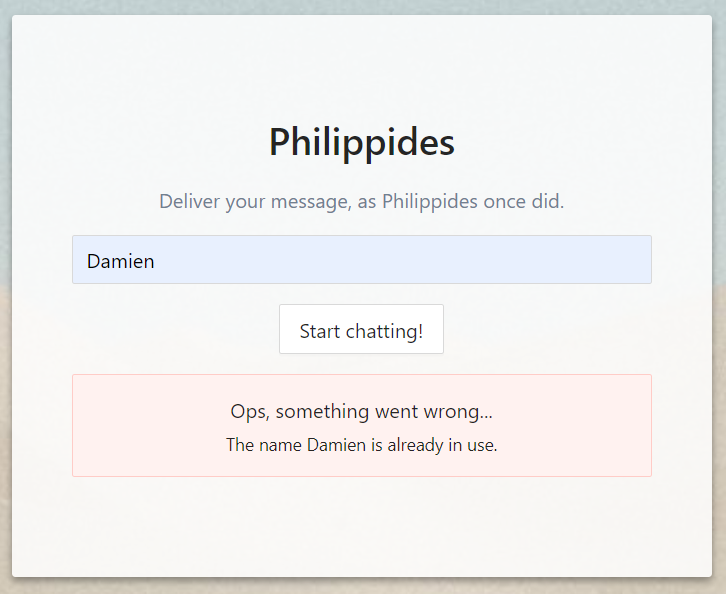
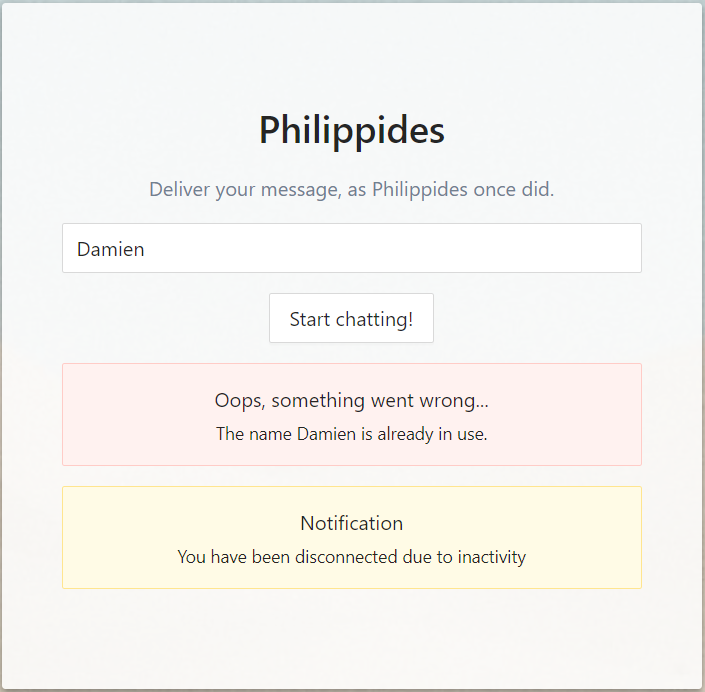
validation & socket revision

diff --git a/src/pages/chat/index.tsx b/src/pages/chat/index.tsx
@@ -12,6 +12,7 @@ import { Type as AuthType } from 'reducers/auth/definitions';
 import Account from 'components/users/account';
 import UserList from 'components/users/user-list';
 import { SocketType } from 'utils/socket';
+import { isStringArray, isString, isMessage } from 'utils/validator';
 
 const Chat = () => {
   const [state, dispatch] = useReducer(chatReducer, chatInitialState);
@@ -25,18 +26,36 @@ const Chat = () => {
   useEffect(() => {
     socketRef.current = io(`http://localhost:4000?userId=${auth?.id}`);
 
-    socketRef.current.on(SocketType.ActiveUsers, (data: string[]) => {
+    socketRef.current.on(SocketType.ActiveUsers, (data: unknown) => {
+      if (!isStringArray(data)) {
+        clientAlert('unable to fetch list of active users');
+        return;
+      }
+
       dispatch({
         type: Type.ADD_USER,
         payload: data,
       });
     });
 
-    socketRef.current.on(SocketType.NewMessage, (data: any) => {
+    socketRef.current.on(SocketType.NewMessage, (data: unknown) => {
+      if (!isMessage(data)) {
+        clientAlert('unable to fetch new message');
+        return;
+      }
+
       dispatch({
         type: Type.ADD_MESSAGE,
         payload: data,
       });
+    });
+
+    socketRef.current.on(SocketType.Alert, (data: unknown) => {
+      clientAlert(
+        `Oops, something went wrong: ${
+          isString(data) ? data : 'contact support or try again'
+        }`
+      );
     });
 
     socketRef.current.on(SocketType.Disconnect, () => {
@@ -46,8 +65,16 @@ const Chat = () => {
       });
     });
 
-    socketRef.current.on(SocketType.Alert, (data: any) => {
-      alert(`Ops, something went wrong: ${data}`);
+    socketRef.current.on(SocketType.UserInactive, () => {
+      socketRef.current?.emit(SocketType.UserInactive);
+      authDispatch({
+        type: AuthType.SET_ACCOUNT,
+        payload: null,
+      });
+      authDispatch({
+        type: AuthType.SET_INFO,
+        payload: 'You have been logged out due to inactivity.',
+      });
     });
 
     return () => {
@@ -55,12 +82,28 @@ const Chat = () => {
         socketRef.current.disconnect();
       }
     };
-  }, []);
+  }, []); // eslint-disable-line
+
+  const clientAlert = (msg: string): void => {
+    alert(msg);
+  };
 
   const sendMessage = (text: string): void => {
     socketRef.current?.emit(SocketType.NewMessage, {
       id: auth?.name,
       text,
+    });
+  };
+
+  const signOut = (): void => {
+    socketRef.current?.emit(SocketType.UserDisconnected);
+    authDispatch({
+      type: AuthType.SET_ACCOUNT,
+      payload: null,
+    });
+    authDispatch({
+      type: AuthType.SET_INFO,
+      payload: 'You have been logged out.',
     });
   };
 
@@ -84,7 +127,7 @@ const Chat = () => {
         </div>
         <div className="sidebar">
           <div className="sidebar__account">
-            <Account name={auth.name} />
+            <Account name={auth.name} signOut={signOut} />
           </div>
           <div className="sidebar__users">
             <UserList />

diff --git a/src/tests/utils/validator.test.ts b/src/tests/utils/validator.test.ts
@@ -1,0 +1,56 @@
+import { isStringArray, isString, isMessage } from 'utils/validator';
+
+describe('test suites for isStringArray', () => {
+  test('should return false for array of different types', () => {
+    expect(isStringArray([1, '2'])).toBeFalsy();
+  });
+
+  test('should return true for a valid array of strings', () => {
+    expect(isStringArray(['1', '2'])).toBeTruthy();
+  });
+});
+
+describe('test suites for isString', () => {
+  test('should return false for an invalid string', () => {
+    expect(isString(2)).toBeFalsy();
+  });
+
+  test('should return true for a valid string', () => {
+    expect(isString('')).toBeTruthy();
+  });
+});
+
+describe('test suites for isMessage', () => {
+  test('should return false for an invalid message', () => {
+    expect(
+      isMessage({
+        id: '123',
+        text: 'hello world',
+      })
+    ).toBeFalsy();
+  });
+
+  test('should return true for a valid message (user message)', () => {
+    expect(
+      isMessage({
+        id: '123',
+        admin: false,
+        text: 'hello world',
+        user: '123',
+        created: 12345,
+      })
+    ).toBeTruthy();
+  });
+
+  test('should return true for a valid message (admin message)', () => {
+    expect(
+      isMessage({
+        id: '123',
+        admin: true,
+        text: 'hello world',
+        user: null,
+        created: 12345,
+      })
+    ).toBeTruthy();
+  });
+});

diff --git a/src/pages/login/index.tsx b/src/pages/login/index.tsx
@@ -5,12 +5,14 @@ import { Type } from './definitions';
 import { Input, Button, Alert, Typography } from 'antd';
 import { AuthContext } from 'utils/contexts';
 import { Type as AuthTypes } from 'reducers/auth/definitions';
-import Debug from 'utils/debug';
 
 const { Title } = Typography;
 
 const Login = () => {
-  const { authState, authDispatch } = useContext(AuthContext);
+  const {
+    authState: { info },
+    authDispatch,
+  } = useContext(AuthContext);
   const [state, dispatch] = useReducer(loginReducer, loginInitialState);
   const {
     form: { username },
@@ -67,7 +69,6 @@ const Login = () => {
 
   return (
     <div className="login-layout">
-      <Debug data={authState} />
       <div className="login-layout__box">
         <Title level={2}>Philippides</Title>
         <p className="box__subtitle">
@@ -94,9 +95,17 @@ const Login = () => {
         {error && (
           <Alert
             className="box__alert"
-            message="Ops, something went wrong..."
+            message="Oops, something went wrong..."
             description={error}
             type="error"
+          />
+        )}
+        {info && (
+          <Alert
+            className="box__alert"
+            message="Notification"
+            description={info}
+            type="warning"
           />
         )}
       </div>

diff --git a/src/components/users/account.tsx b/src/components/users/account.tsx
@@ -1,32 +1,20 @@
-import React, { useContext } from 'react';
+import React from 'react';
 import { Button } from 'antd';
-import { AuthContext } from 'utils/contexts';
-import { Type } from 'reducers/auth/definitions';
 
 interface IProps {
   name: string;
+  signOut: () => void;
 }
 
-const Account: React.FC<IProps> = ({ name }) => {
-  const { authDispatch } = useContext(AuthContext);
-
-  const onClickHandler = () => {
-    authDispatch({
-      type: Type.SET_ACCOUNT,
-      payload: null,
-    });
-  };
-
-  return (
-    <div className="account">
-      <div className="account__name">
-        <p>{name}</p>
-      </div>
-      <div className="account__exit">
-        <Button onClick={onClickHandler}>Sign out</Button>
-      </div>
+const Account: React.FC<IProps> = ({ name, signOut }) => (
+  <div className="account">
+    <div className="account__name">
+      <p>{name}</p>
     </div>
-  );
-};
+    <div className="account__exit">
+      <Button onClick={signOut}>Sign out</Button>
+    </div>
+  </div>
+);
 
 export default Account;

diff --git a/src/utils/validator.ts b/src/utils/validator.ts
@@ -1,0 +1,23 @@
+/**
+ * * User-Defined Type Guards to ensure valid data at runtime
+ */
+
+import { IMessage } from 'pages/chat/definitions';
+
+export const isStringArray = (req: unknown): req is Array<string> =>
+  Array.isArray(req) && req.every((o) => typeof o === 'string');
+
+export const isString = (req: unknown): req is string =>
+  typeof req === 'string';
+
+export const isMessage = (req: any): req is IMessage => {
+  return (
+    req &&
+    typeof req === 'object' &&
+    typeof req?.id === 'string' &&
+    typeof req?.admin === 'boolean' &&
+    typeof req?.text === 'string' &&
+    (req?.user === null || typeof req?.user === 'string') &&
+    typeof req?.created === 'number'
+  );
+};

diff --git a/src/reducers/auth/index.ts b/src/reducers/auth/index.ts
@@ -2,6 +2,7 @@ import { State, Action, Type } from './definitions';
 
 export const authInitialState = {
   auth: null,
+  info: null,
 };
 
 export const authReducer = (state: State, action: Action): State => {
@@ -10,6 +11,11 @@ export const authReducer = (state: State, action: Action): State => {
       return {
         ...state,
         auth: action.payload ? { ...action.payload } : action.payload,
+      };
+    case Type.SET_INFO:
+      return {
+        ...state,
+        info: action.payload,
       };
     default:
       throw new Error('No case matched!');

diff --git a/src/reducers/auth/definitions.ts b/src/reducers/auth/definitions.ts
@@ -3,6 +3,7 @@
  */
 export enum Type {
   SET_ACCOUNT = 'SET_ACCOUNT',
+  SET_INFO = 'SET_INFO',
 }
 
 /**
@@ -13,13 +14,19 @@ export type SetAccount = {
   payload: IAccount | null;
 };
 
-export type Action = SetAccount;
+export type SetInfo = {
+  type: Type.SET_INFO;
+  payload: string | null;
+};
+
+export type Action = SetAccount | SetInfo;
 
 /**
  * * State
  */
 export type State = {
   auth: IAccount | null;
+  info: string | null;
 };
 
 /**

diff --git a/src/tests/selectors/messages.test.ts b/src/tests/selectors/messages.test.ts
@@ -41,6 +41,11 @@ describe('test suites for text filtering', () => {
       userType: UserType.All,
     };
 
-    expect(filterMessages(filters, messages)).toEqual([messages[2]]);
+    expect(filterMessages(filters, messages)).toEqual([
+      {
+        ...messages[2],
+        text: 'Hello <em>World</em>!',
+      },
+    ]);
   });
 });

diff --git a/src/styles/components/_account.scss b/src/styles/components/_account.scss
@@ -1,8 +1,13 @@
 .account {
   display: flex;
   align-items: center;
-  justify-content: space-around;
+  justify-content: space-between;
   height: 100%;
+  padding: $s-size;
+
+  @media (min-width: $desktop-breakpoint) {
+    justify-content: space-around;
+  }
 }
 
 .account__name {

diff --git a/src/utils/socket.ts b/src/utils/socket.ts
@@ -1,6 +1,9 @@
 export enum SocketType {
   Disconnect = 'disconnect',
+  Inactive = 'inactive',
   NewMessage = 'new-message',
   ActiveUsers = 'active-users',
   Alert = 'alert',
+  UserDisconnected = 'user-disconnected',
+  UserInactive = 'user-inactive',
 }

diff --git a/src/index.tsx b/src/index.tsx
@@ -23,10 +23,8 @@ const App: React.FC<IProps> = ({ children }) => {
 };
 
 ReactDOM.render(
-  <React.StrictMode>
-    <App>
-      <AppRouter />
-    </App>
-  </React.StrictMode>,
+  <App>
+    <AppRouter />
+  </App>,
   document.getElementById('root')
 );

diff --git a/src/styles/components/_users.scss b/src/styles/components/_users.scss
@@ -5,6 +5,7 @@
 }
 
 .user-card.user-card--highlight {
+  border-color: $seagrass;
   background: $seagrass;
   color: $white;
 }
